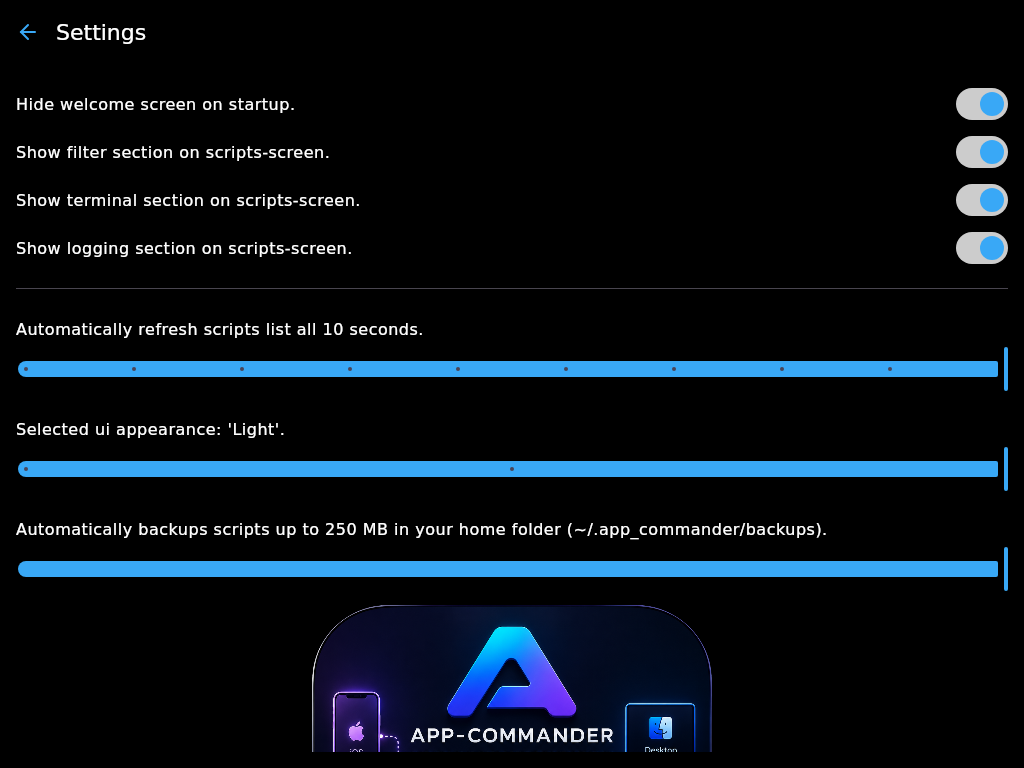
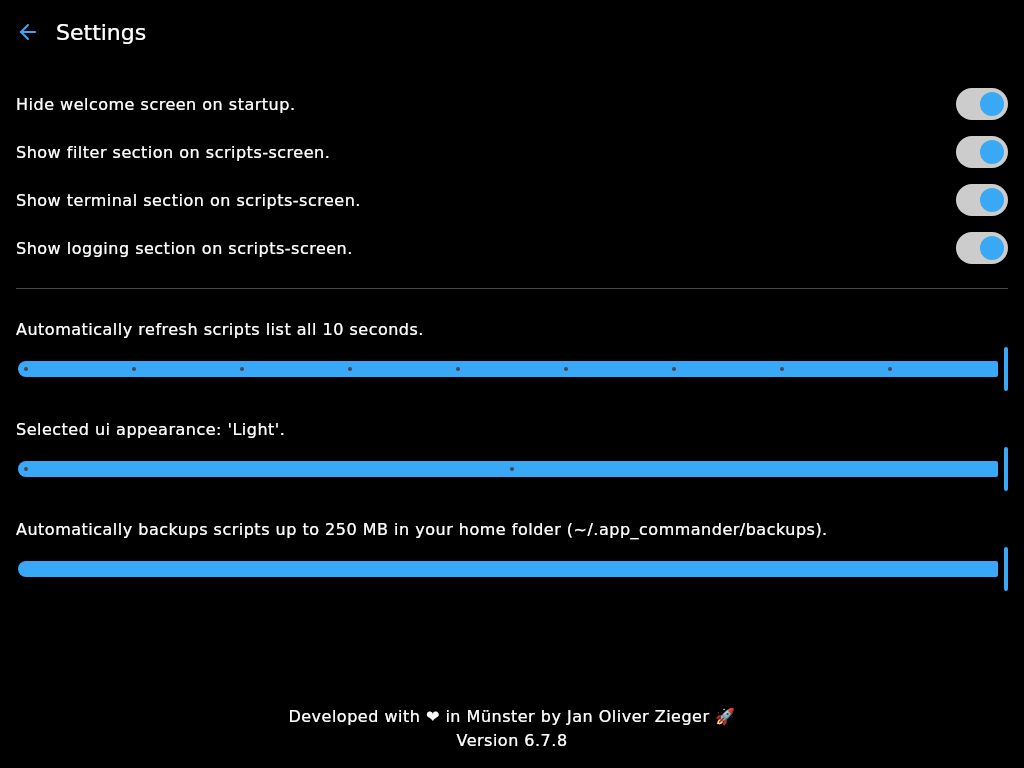
set color for README and colorize in code (#110)
* set color for README and colorize in code

* Fix/Improve

* Fix/Improve

* Fix/Improve

* Fix/Improve

* Fix/Improve

* Fix/Improve

* Fix/Improve

* Fix/Improve

* Fix/Improve

* Fix/Improve

Changed region(s): [[0.2812, 0.7812, 0.7188, 1.0]]

diff --git a/sharedCode/src/commonMain/kotlin/de/joz/appcommander/ui/settings/SettingsScreen.kt b/sharedCode/src/commonMain/kotlin/de/joz/appcommander/ui/settings/SettingsScreen.kt
@@ -1,12 +1,10 @@
 package de.joz.appcommander.ui.settings
 
-import androidx.compose.foundation.Image
 import androidx.compose.foundation.layout.Arrangement
 import androidx.compose.foundation.layout.Box
 import androidx.compose.foundation.layout.Column
 import androidx.compose.foundation.layout.fillMaxSize
 import androidx.compose.foundation.layout.padding
-import androidx.compose.foundation.layout.size
 import androidx.compose.foundation.rememberScrollState
 import androidx.compose.foundation.verticalScroll
 import androidx.compose.material3.ExperimentalMaterial3Api
@@ -15,12 +13,12 @@ import androidx.compose.material3.Scaffold
 import androidx.compose.runtime.Composable
 import androidx.compose.ui.Alignment
 import androidx.compose.ui.Modifier
+import androidx.compose.ui.text.style.TextAlign
 import androidx.compose.ui.tooling.preview.Preview
 import androidx.compose.ui.unit.dp
 import androidx.lifecycle.compose.collectAsStateWithLifecycle
 import de.joz.appcommander.BuildConfig
 import de.joz.appcommander.resources.Res
-import de.joz.appcommander.resources.app_logo
 import de.joz.appcommander.resources.settings_footer
 import de.joz.appcommander.resources.settings_preference_show_welcome_screen
 import de.joz.appcommander.resources.settings_preference_track_scripts_file_delay_slider_label
@@ -31,7 +29,6 @@ import de.joz.appcommander.ui.misc.Slider
 import de.joz.appcommander.ui.misc.TextLabel
 import de.joz.appcommander.ui.misc.TextLabelType
 import de.joz.appcommander.ui.misc.TitleBar
-import org.jetbrains.compose.resources.painterResource
 import org.jetbrains.compose.resources.stringResource
 
 @Composable
@@ -122,15 +119,11 @@ internal fun SettingsContent(
 
 			Box(modifier = Modifier.weight(1f))
 
-			Image(
-				modifier = Modifier.size(400.dp).align(Alignment.CenterHorizontally),
-				painter = painterResource(Res.drawable.app_logo),
-				contentDescription = null,
-			)
 			TextLabel(
 				modifier = Modifier.align(Alignment.CenterHorizontally).padding(top = 16.dp),
 				text = stringResource(Res.string.settings_footer, BuildConfig.MAIN_VERSION),
 				textLabelType = TextLabelType.BodyLarge,
+				textAlign = TextAlign.Center,
 			)
 		}
 	}

diff --git a/sharedCode/src/commonMain/kotlin/de/joz/appcommander/ui/misc/PlatformIcon.kt b/sharedCode/src/commonMain/kotlin/de/joz/appcommander/ui/misc/PlatformIcon.kt
@@ -1,12 +1,12 @@
 package de.joz.appcommander.ui.misc
 
+import androidx.compose.foundation.Image
 import androidx.compose.foundation.background
 import androidx.compose.foundation.layout.Box
 import androidx.compose.foundation.layout.fillMaxSize
 import androidx.compose.foundation.layout.padding
 import androidx.compose.foundation.layout.size
 import androidx.compose.foundation.shape.CircleShape
-import androidx.compose.material3.Icon
 import androidx.compose.runtime.Composable
 import androidx.compose.ui.Modifier
 import androidx.compose.ui.graphics.Color
@@ -24,23 +24,19 @@ import org.jetbrains.compose.resources.DrawableResource
 import org.jetbrains.compose.resources.painterResource
 
 @Composable
-fun PlatformIcon(
-	isActive: Boolean,
-	platform: ScriptsRepository.Platform,
-) {
+fun PlatformIcon(platform: ScriptsRepository.Platform) {
 	Box(
 		modifier = Modifier
 			.size(40.dp)
 			.background(
-				if (isActive) Color.Unspecified else Color.White,
+				Color.White,
 				CircleShape,
 			).padding(platform.padding()),
 	) {
-		Icon(
+		Image(
 			modifier = Modifier.fillMaxSize(),
 			painter = painterResource(platform.icon()),
 			contentDescription = null,
-			tint = Color.Unspecified,
 		)
 	}
 }
@@ -74,11 +70,6 @@ internal fun PreviewPlatformIcon(darkMode: Boolean) {
 	) {
 		ScriptsRepository.Platform.entries.forEach {
 			PlatformIcon(
-				isActive = true,
-				platform = it,
-			)
-			PlatformIcon(
-				isActive = false,
 				platform = it,
 			)
 		}

diff --git a/sharedCode/src/commonMain/kotlin/de/joz/appcommander/ui/scripts/ScriptsScreen.kt b/sharedCode/src/commonMain/kotlin/de/joz/appcommander/ui/scripts/ScriptsScreen.kt
@@ -223,7 +223,6 @@ private fun ScriptsSection(
 						verticalAlignment = Alignment.CenterVertically,
 					) {
 						PlatformIcon(
-							isActive = isButtonActive,
 							platform = script.originalScript.platform,
 						)
 						Column(
@@ -254,7 +253,6 @@ private fun ScriptsSection(
 						horizontalArrangement = Arrangement.SpaceBetween,
 					) {
 						PlatformIcon(
-							isActive = isButtonActive,
 							platform = script.originalScript.platform,
 						)
 						TextLabel(

diff --git a/README.md b/README.md
@@ -111,6 +111,8 @@ App-Commander is built with modern technologies and best practices:
 
 ## 👷TODOs
 - Create a video showing the UI with emulator and a real device
+- Full UI-test (integration test)
+- JSON-editor
 - Create a demo app for Android
   - AppCompatDelegate.setDefaultNightMode(AppCompatDelegate.MODE_NIGHT_YES)
   - Dummy screen: show automated clicks
